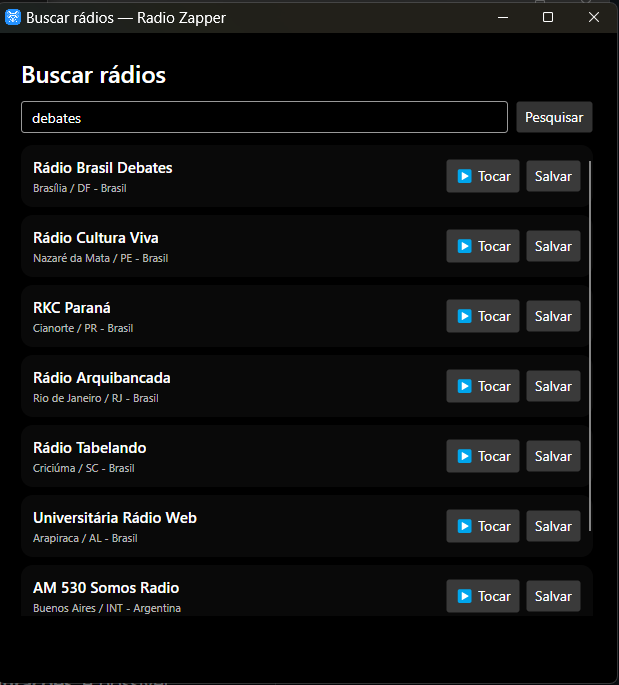
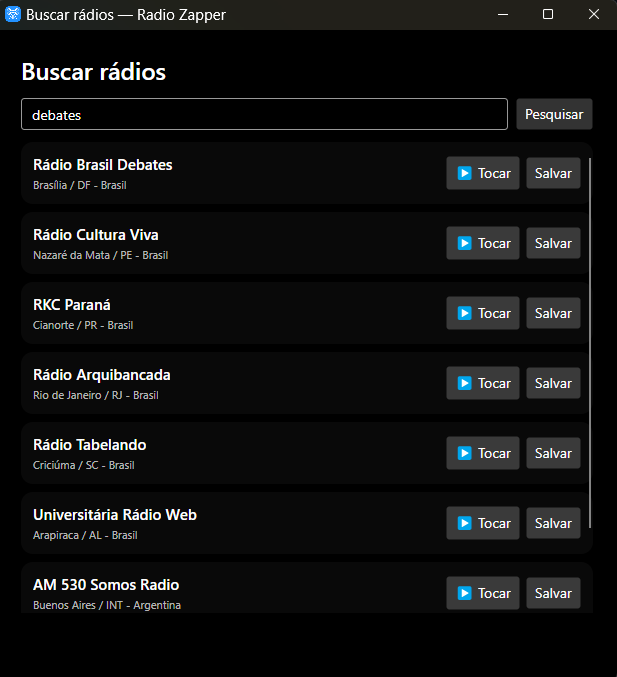
Melhoria Readme.md

diff --git a/README.md b/README.md
@@ -6,11 +6,11 @@ Player de rádios online para Windows, feito com C# e Avalonia UI. Reproduza sua
 
 ### Tela inicial
 
-<img src="docs/imagens/tela-inicial.png" alt="Tela inicial do Radio Zapper" width="600">
+<img src="docs/imagens/tela-inicial.png" alt="Tela inicial do Radio Zapper" width="270">
 
 ### Busca de rádios
 
-<img src="docs/imagens/busca.png" alt="Busca de rádios no Radio Zapper" width="600">
+<img src="docs/imagens/busca.png" alt="Busca de rádios no Radio Zapper" width="300">
 
 ## Recursos
 
